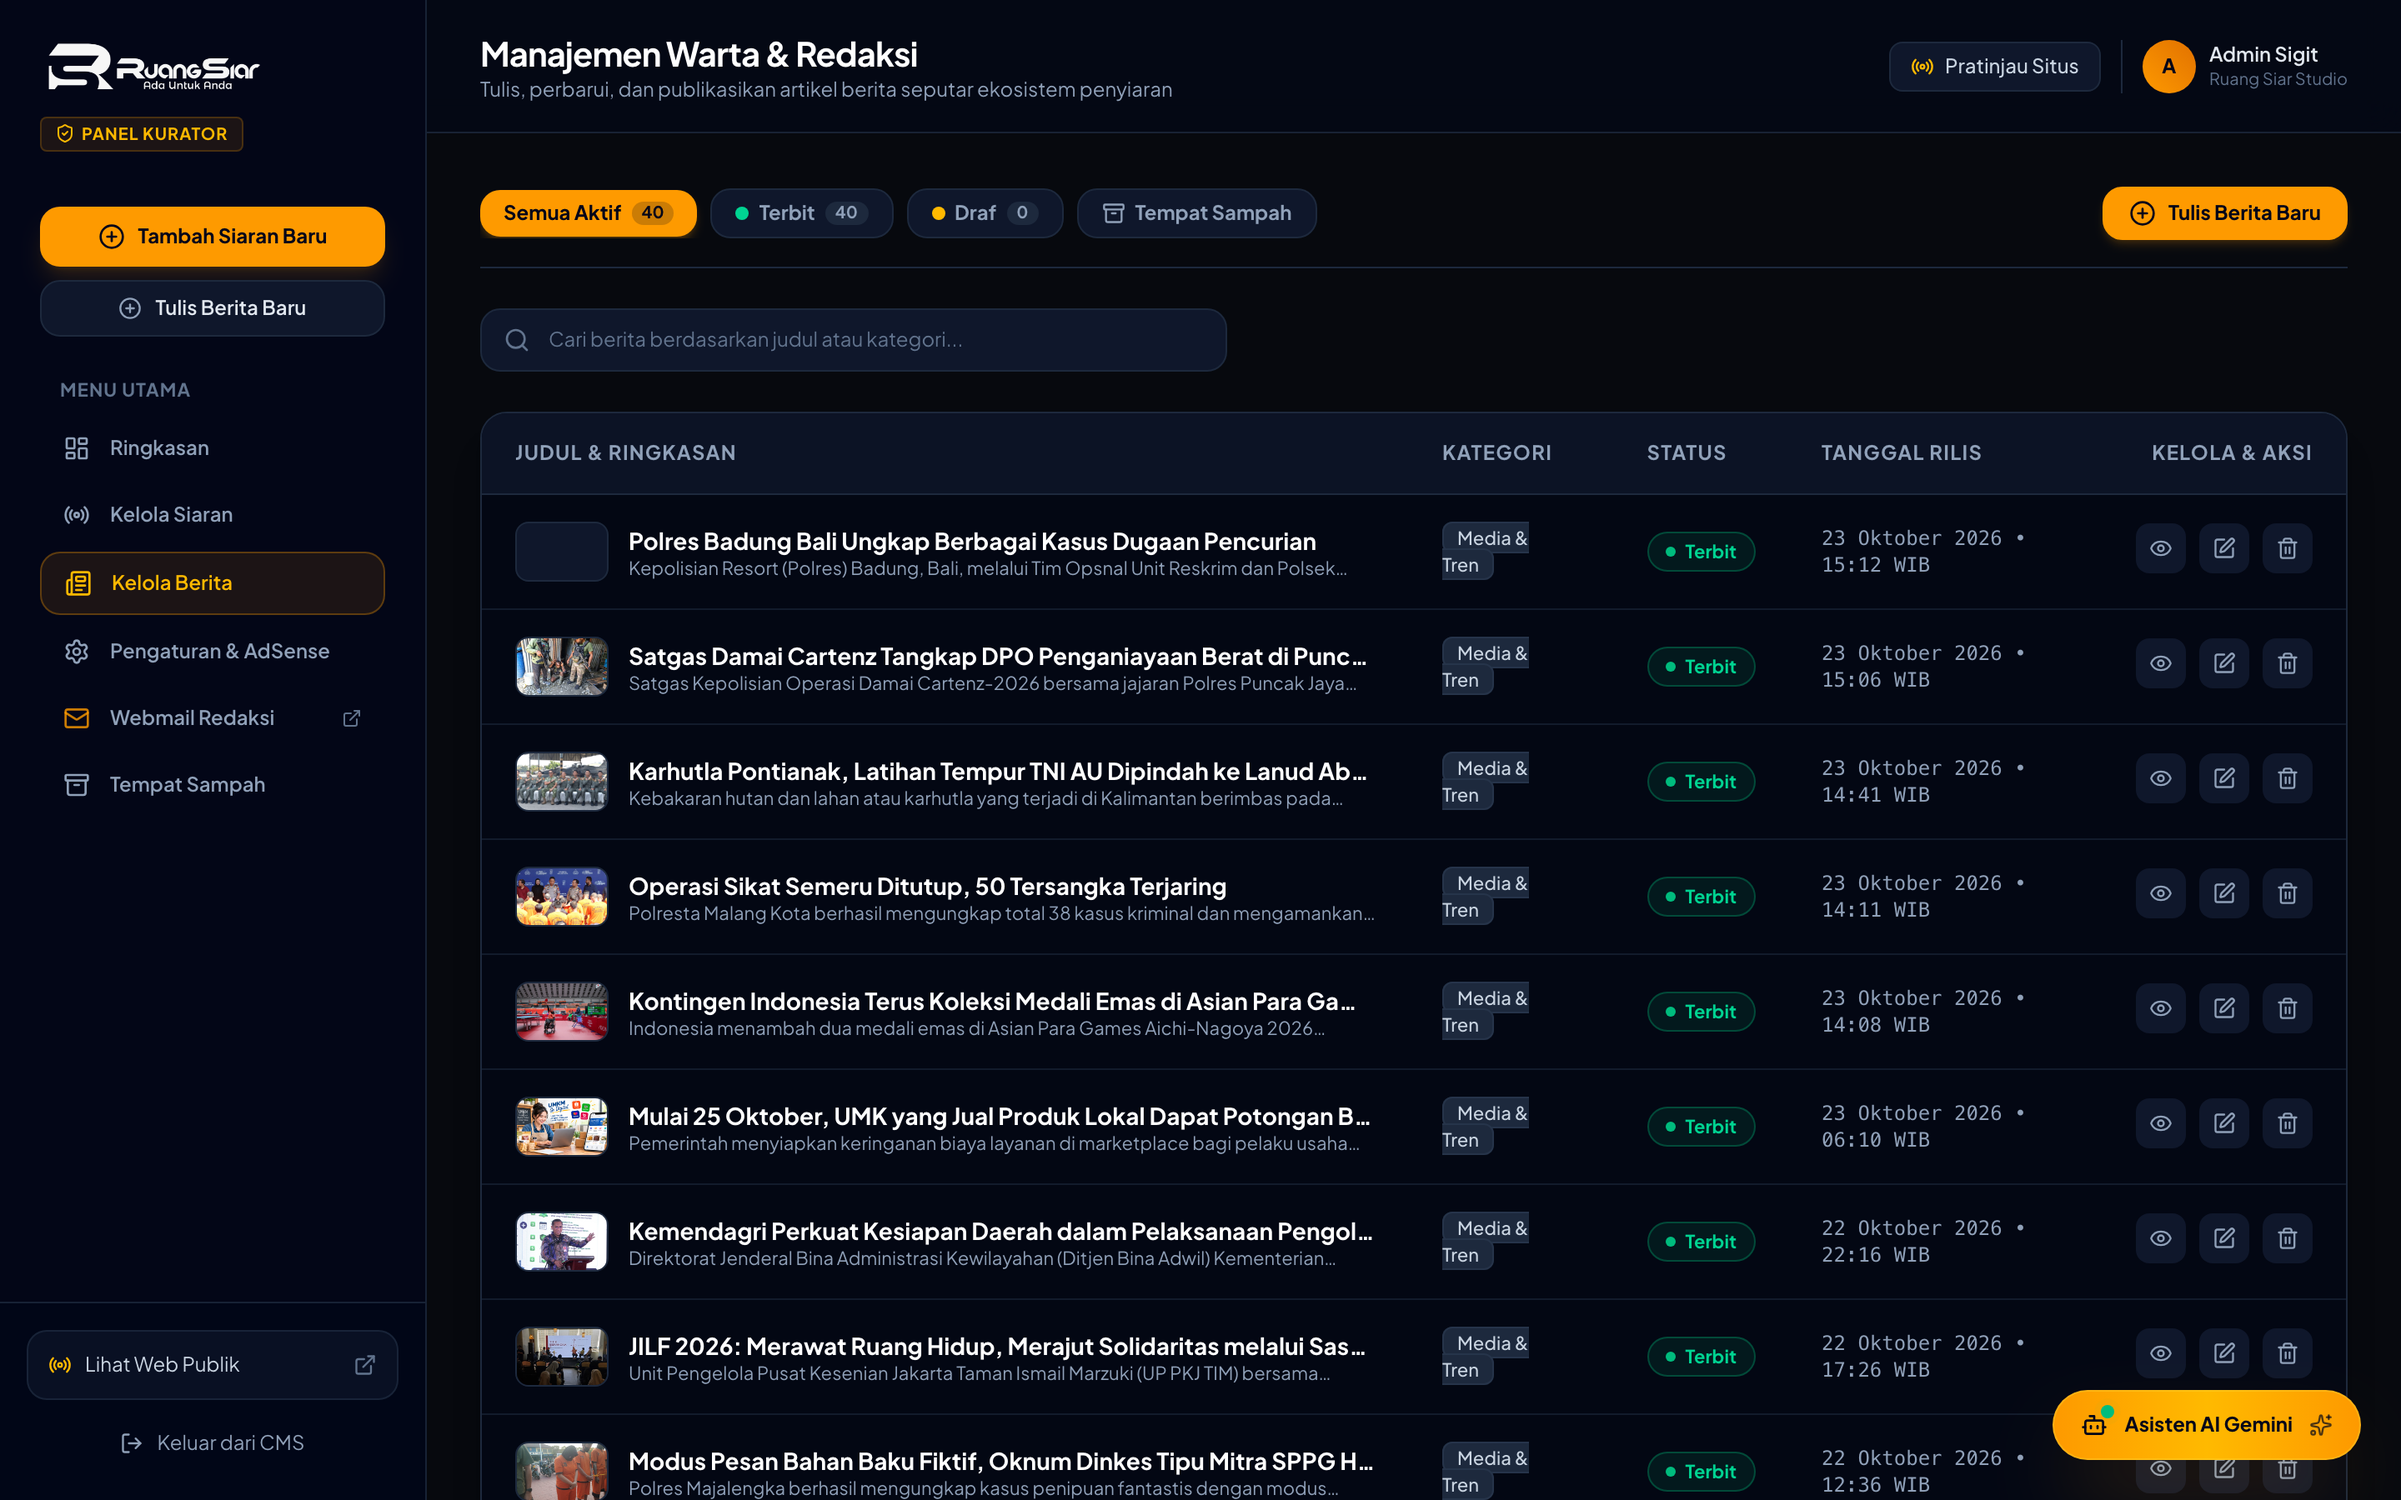
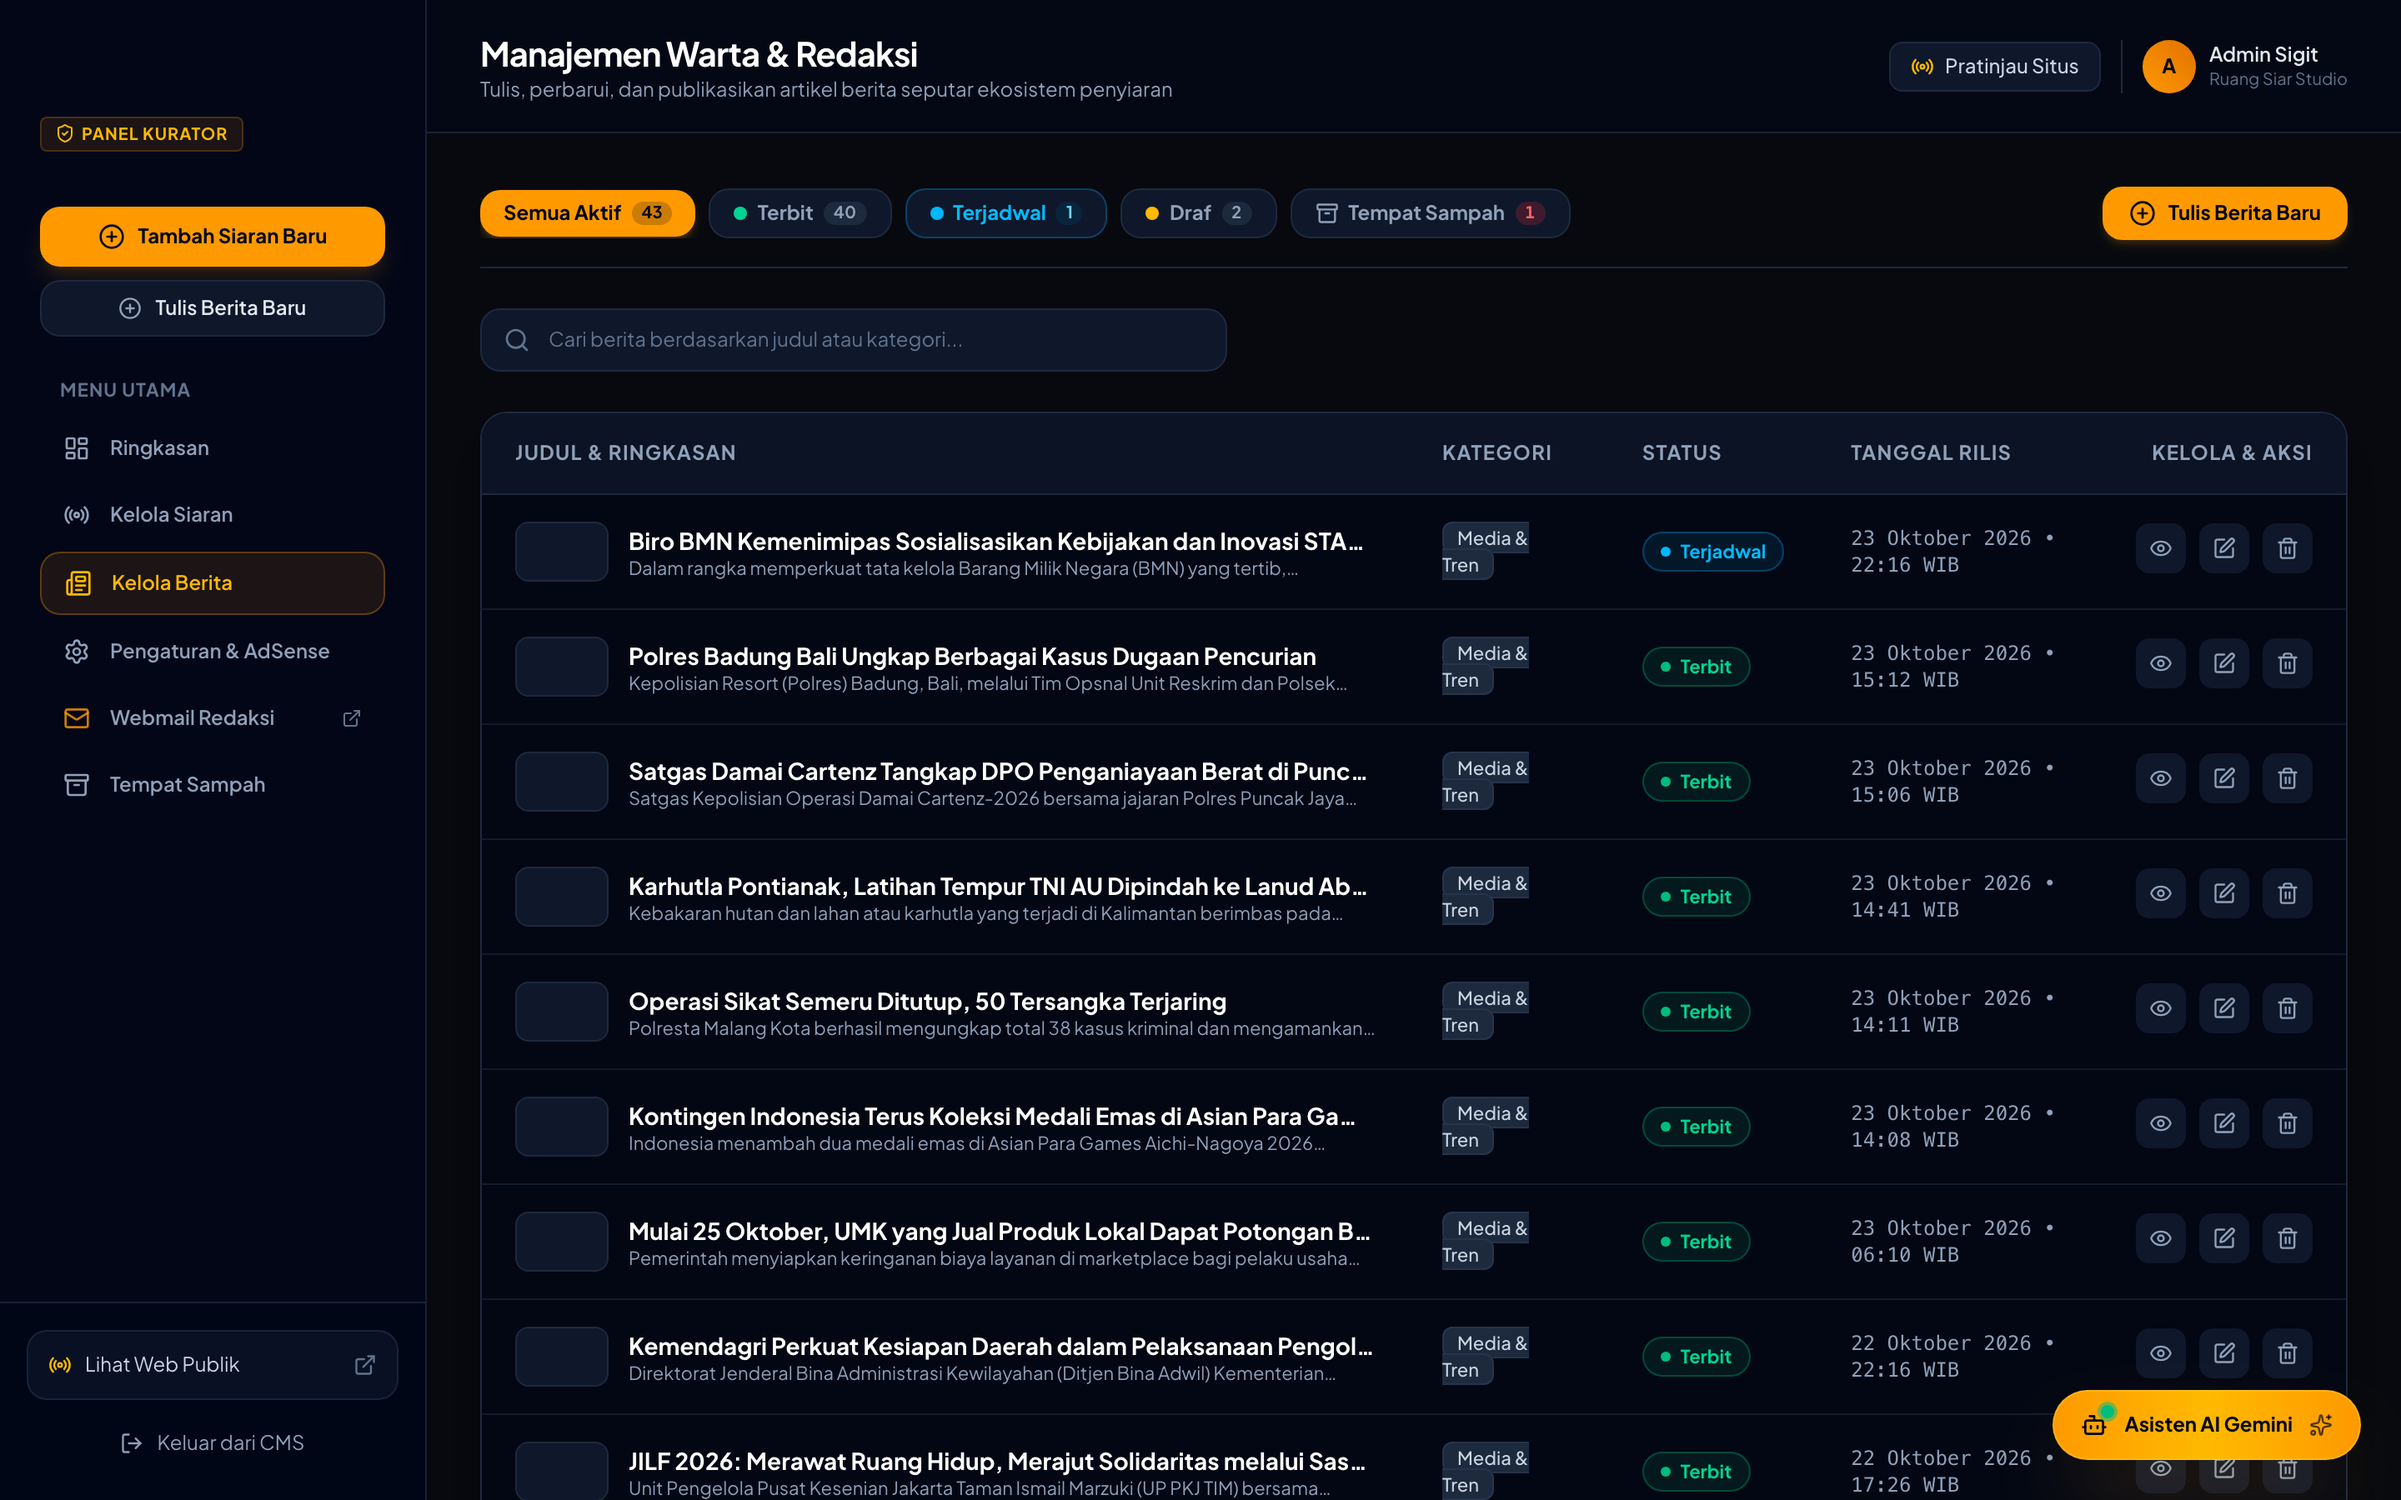
fix(cms): include scheduled items in admin content queries and update warta screenshot

diff --git a/src/lib/data/store.ts b/src/lib/data/store.ts
@@ -645,8 +645,8 @@ export async function deleteNews(id: string): Promise<boolean> {
 /* ================== DASHBOARD METRICS ================== */
 
 export async function getDashboardStats() {
-  const allBroadcasts = await getBroadcasts();
-  const allNews = await getNewsList();
+  const allBroadcasts = await getBroadcasts({ includeFuture: true });
+  const allNews = await getNewsList({ includeFuture: true });
 
   const activeBroadcasts = allBroadcasts.filter((b) => b.status !== 'Archived');
   const totalBroadcasts = activeBroadcasts.length;

diff --git a/src/app/admin/sampah/page.tsx b/src/app/admin/sampah/page.tsx
@@ -8,8 +8,8 @@ import { Archive, Radio, Newspaper } from 'lucide-react';
 export const revalidate = 0;
 
 export default async function AdminRecycleBinPage() {
-  const allBroadcasts = await getBroadcasts();
-  const allNews = await getNewsList();
+  const allBroadcasts = await getBroadcasts({ includeFuture: true });
+  const allNews = await getNewsList({ includeFuture: true });
 
   const archivedBroadcasts = allBroadcasts.filter((b) => b.status === 'Archived');
   const archivedNews = allNews.filter((n) => n.status === 'Archived');

diff --git a/src/app/admin/siaran/page.tsx b/src/app/admin/siaran/page.tsx
@@ -6,7 +6,7 @@ import BroadcastTableClient from '@/components/admin/BroadcastTableClient';
 export const revalidate = 0;
 
 export default async function AdminBroadcastsPage() {
-  const broadcasts = await getBroadcasts();
+  const broadcasts = await getBroadcasts({ includeFuture: true });
 
   return (
     <div className="flex-1 pb-16">

diff --git a/src/app/admin/berita/page.tsx b/src/app/admin/berita/page.tsx
@@ -6,7 +6,7 @@ import NewsTableClient from '@/components/admin/NewsTableClient';
 export const revalidate = 0;
 
 export default async function AdminNewsPage() {
-  const newsList = await getNewsList();
+  const newsList = await getNewsList({ includeFuture: true });
 
   return (
     <div className="flex-1 pb-16">
